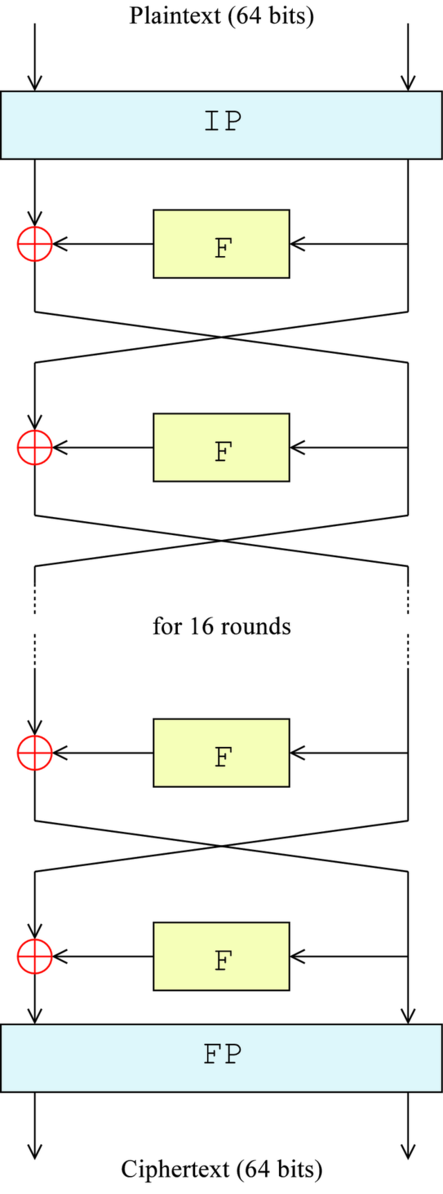
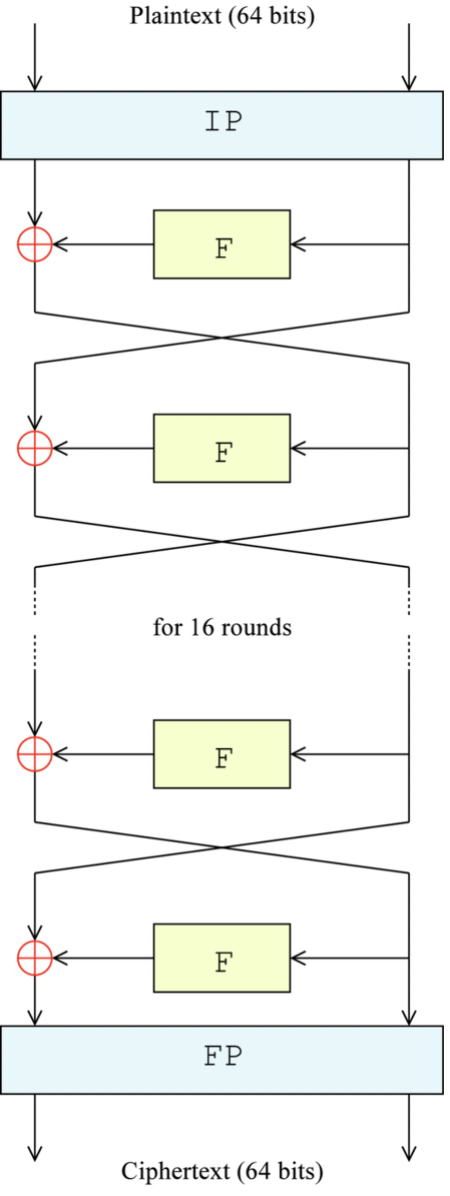
0.5.1

diff --git a/README.md b/README.md
@@ -14,7 +14,7 @@ DES uses block sizes and keys of 64 bits, however:
 DES is a 16 rounds Feistel cipher, which means that the encryption mechanisms is permutated 16 times using the Feistel function.
 
 ## How is data encrypted with DES?  
-<img src="/assets/images/desip.png" style = "max-width: 40%;">  
+<img src="https://user-images.githubusercontent.com/72081655/138575494-02165262-87dd-459d-959e-c82ea686b1d0.png" width=40% height=40%>  
 1) Inputs first pass through an "Initial Permutation". (IP in "Figure 1")
 2) The 64 permutated bits are split into 2, 32 bits on the left and 32 bits on the right.
 3) These left and right bits are permutated with 16 Feistel rounds, using the input key  
@@ -23,15 +23,15 @@ DES is a 16 rounds Feistel cipher, which means that the encryption mechanisms is
 The resulting 64 bits are the output of DES.
 
 
-<img src="/assets/images/des.png" style = "max-width: 40%;">
+<img src="/assets/images/des.png" width=40% height=40%>
 
 
 3.1) As previously said, 8 of the 64 key bits are used for error detection and correction.
 Keys are split once again in 2 halfs, and produced for each rounds using a permutation/contraction function, which permutates and reduces the number of bits (from 56 to 48).
 The shifted halfs are the used as inputs for the next key generation round.  
-<img src="/assets/images/key.png" style = "max-width: 40%;">
+<img src="/assets/images/key.png" width=40% height=40%>
 
 
 
 ## So how does it all come together?  
-<img src="/assets/images/totdes.png" style = "max-width: 40%;">
+<img src="/assets/images/totdes.png" width=40% height=40%>
